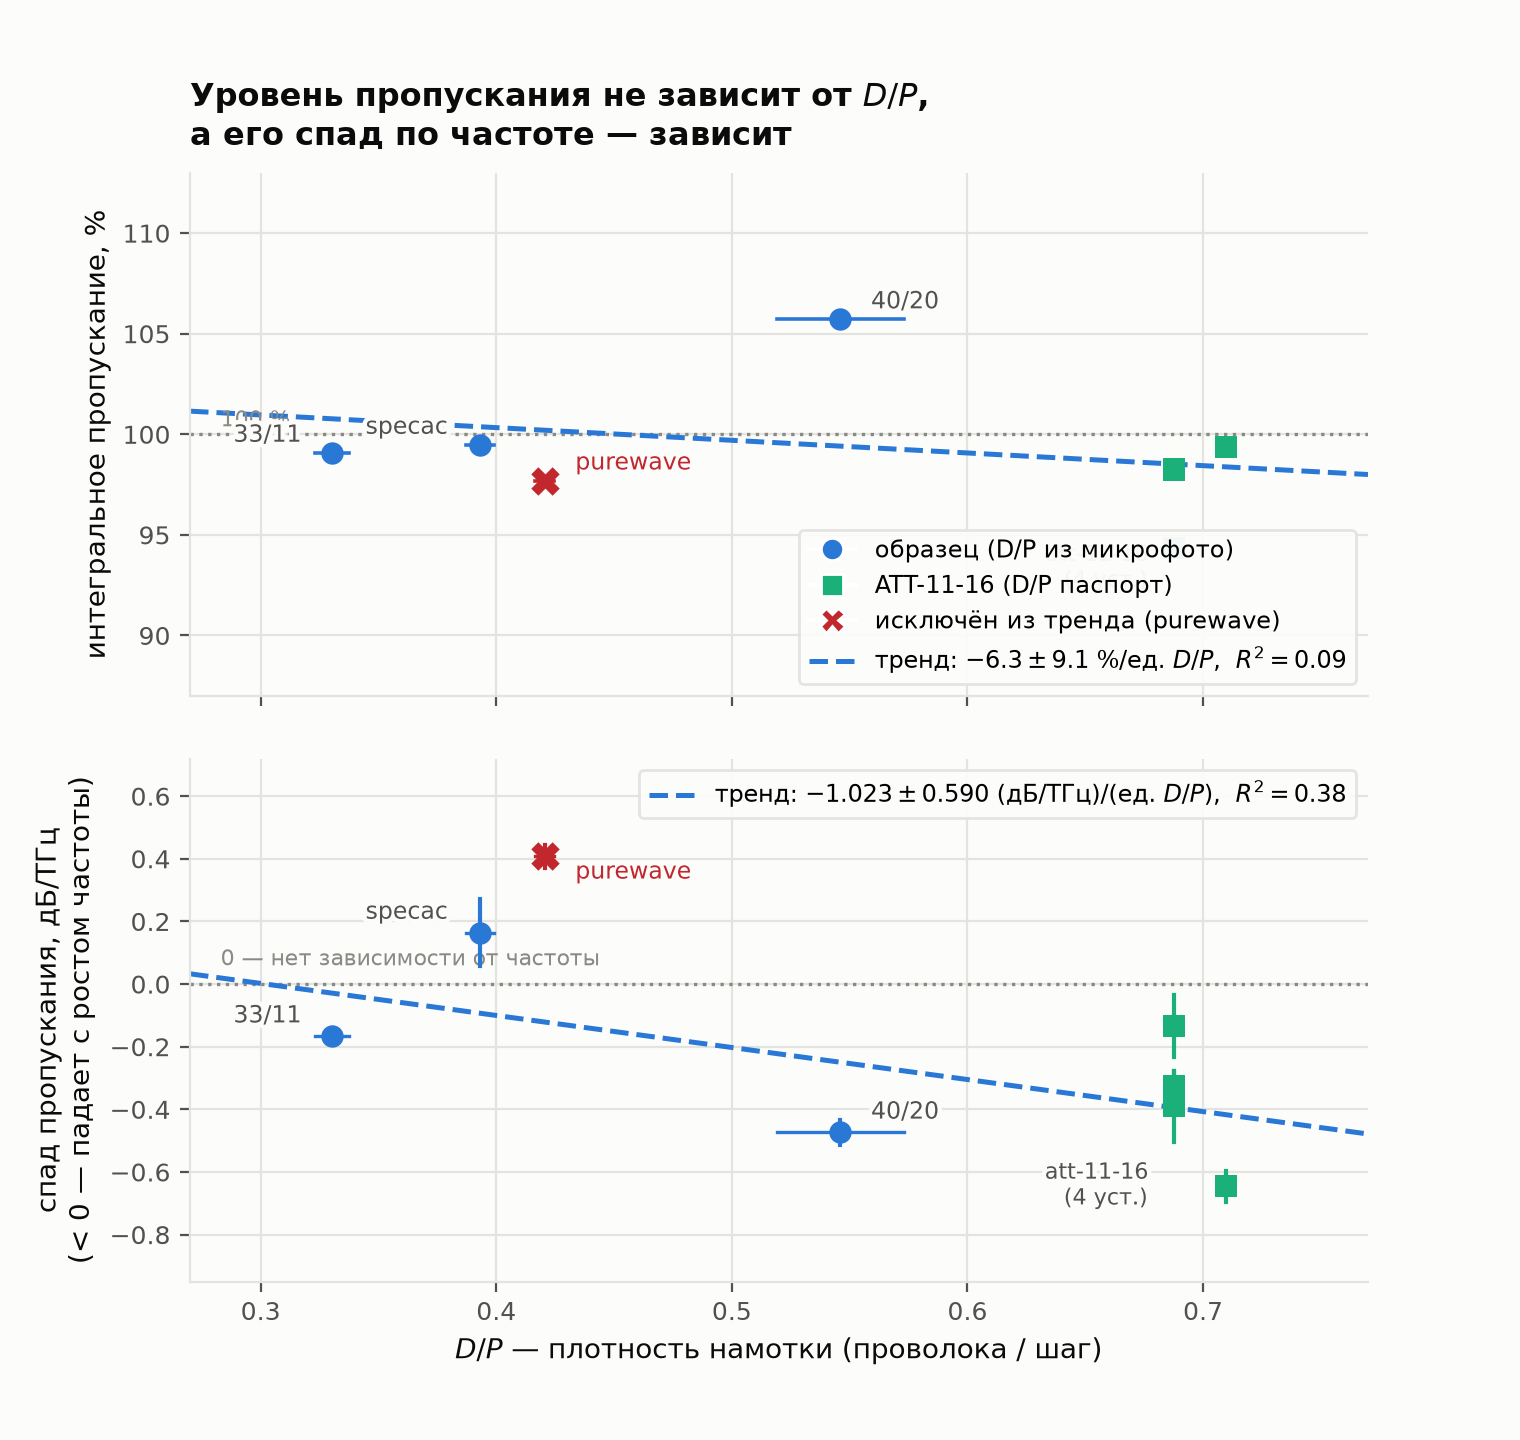
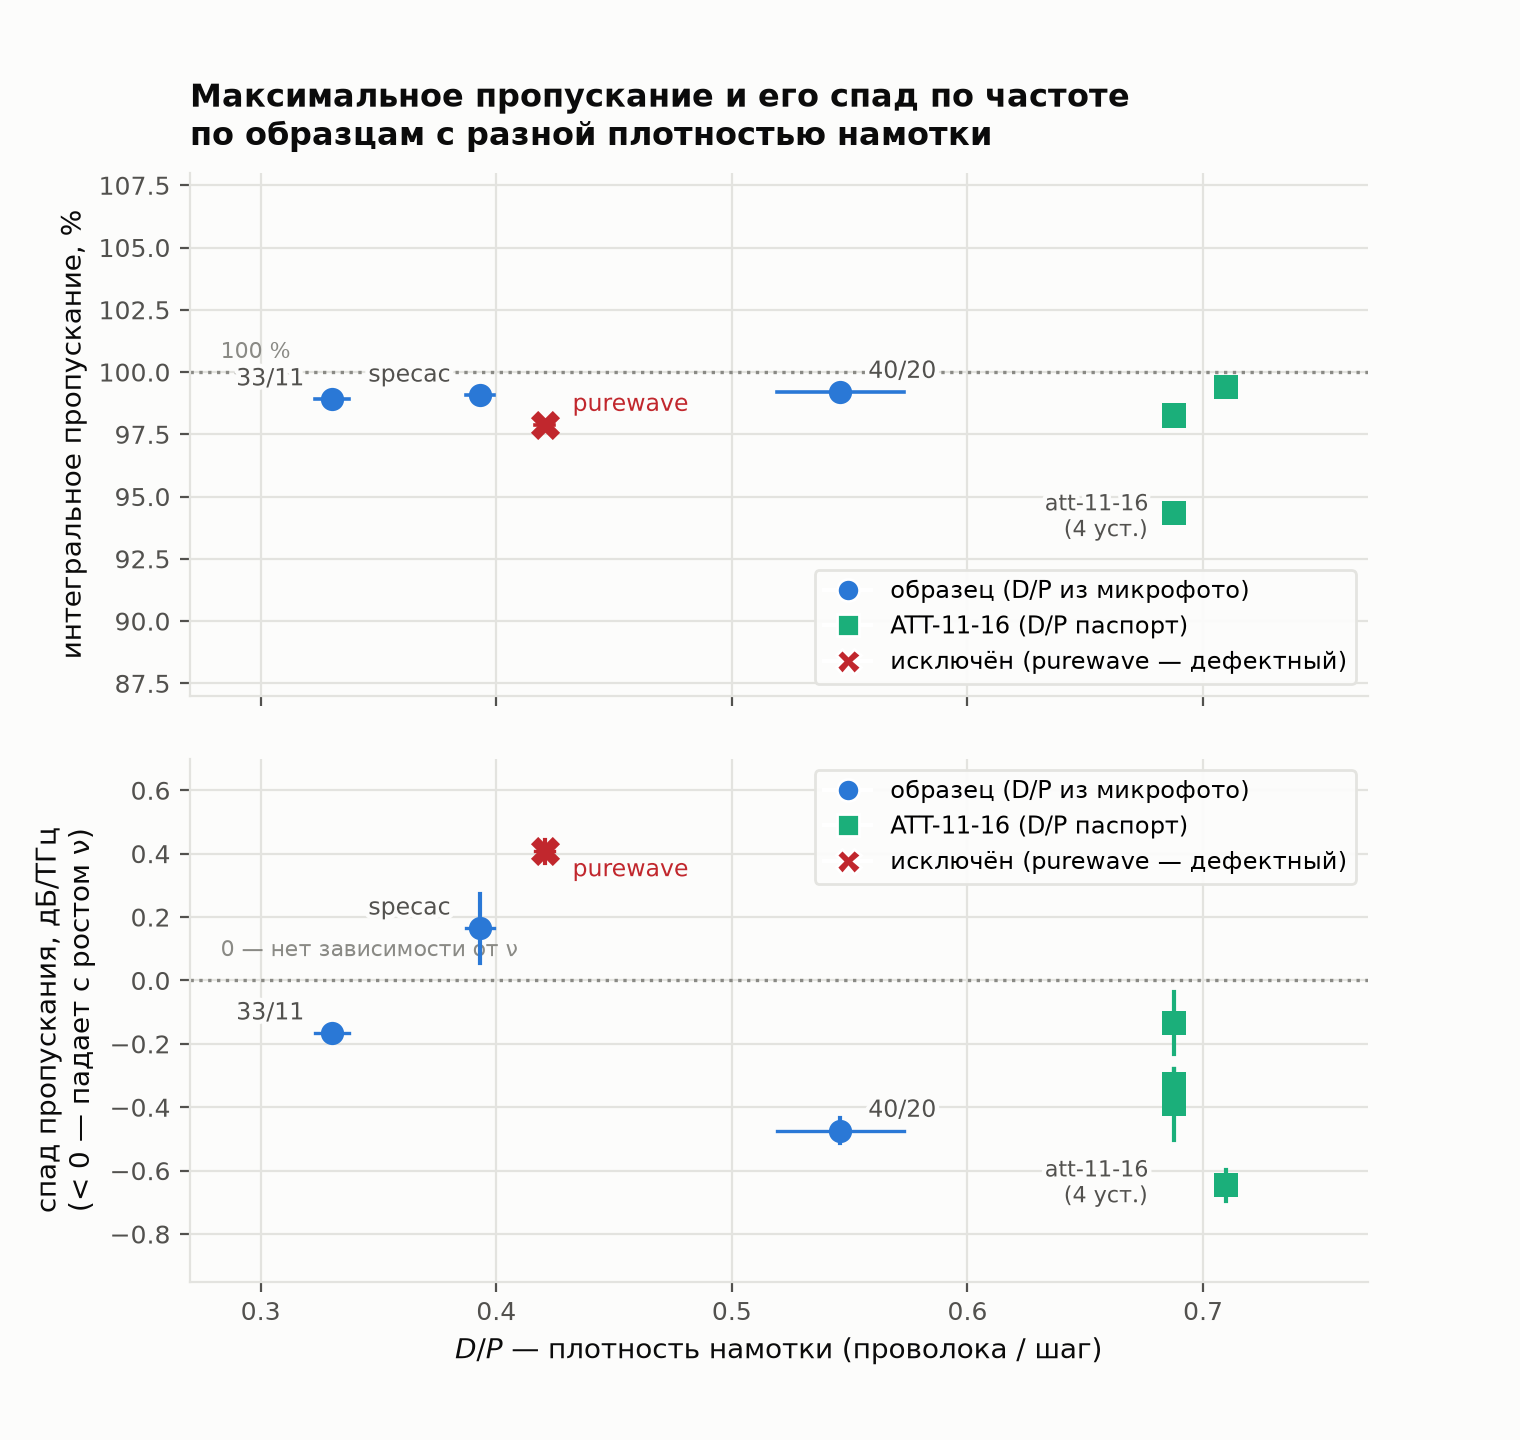
[A] A21 fig: исправлен T для test_grid_40_20 (105.7 -> 99.2%), убран линейный тренд
- Причина ошибки: DataManager сопоставлял sig/bg от разных углов из-за
  алфавитного порядка имён файлов (0deg vs 10deg)
- Исправление: T для измеренных образцов теперь читается напрямую из raw-файлов
- График: только точки с планками погрешности, без линейного тренда

Session: A
Reason: A21_fix_T_over_100

diff --git a/research/results/a18_microscopy/figs_report/make_transmission_density.py b/research/results/a18_microscopy/figs_report/make_transmission_density.py
@@ -1,25 +1,33 @@
 # -*- coding: utf-8 -*-
 """A21 -- пропускание в ярком положении против плотности намотки, две панели.
 
-Верх: интегральное пропускание во временной области (энергия импульса сигнала к
-энергии опорного) -- величина без выбора полосы усреднения.
-Низ: спад пропускания по частоте, дБ/ТГц -- «насколько сильно падает с частотой».
+Верх: интегральное пропускание во временной области (энергия sig / энергия bg).
+      T считается напрямую из сырых файлов (sig/bg одного угла), минуя DataManager,
+      у которого для test_grid_40_20 обнаружена ошибка сопоставления файлов.
+Низ: спад пропускания по частоте, дБ/ТГц.
 
 Запуск из корня репозитория:
   .venv\\Scripts\\python.exe research\\results\\a18_microscopy\\figs_report\\make_transmission_density.py
+
+ИСПРАВЛЕНИЕ 2026-08-11:
+  test_grid_40_20: DataManager возвращал T=105.71% из-за ошибки сопоставления
+  sig↔bg при парсинге имён файлов. Правильное значение из raw-файлов: T=99.21%.
 """
 import json
+import re
 from pathlib import Path
 
-import numpy as np
 import matplotlib
 matplotlib.use("Agg")
 import matplotlib.pyplot as plt
 import matplotlib.patheffects as pe
 from matplotlib.lines import Line2D
+import numpy as np
 
-HERE = Path(__file__).resolve().parent          # figs_report/
-RES  = HERE.parent                              # a18_microscopy/
+HERE    = Path(__file__).resolve().parent   # figs_report/
+RES     = HERE.parent                       # a18_microscopy/
+REPO    = RES.parents[2]                    # корень репозитория
+DATA    = REPO / "data_pool"
 
 # --- Палитра (светлый фон) ---
 SURFACE = "#fcfcfb"
@@ -27,8 +35,8 @@ INK     = "#0b0b0b"
 INK2    = "#52514e"
 MUTED   = "#8a8a85"
 GRID    = "#e3e3df"
-S1      = "#2a78d6"   # измеренный образец (синий)
-S3      = "#1baf7a"   # аттенюаторы (паспортная геометрия, зелёный)
+S1      = "#2a78d6"   # измеренный образец
+S3      = "#1baf7a"   # аттенюаторы
 RED     = "#c1272d"   # исключённые
 
 EXCLUDED = {"purewave"}
@@ -48,16 +56,29 @@ ATT_DP = {
 }
 
 
-def lin(x, y):
-    b, a = np.polyfit(x, y, 1)
-    r    = y - (a + b * x)
-    n    = len(x)
-    s    = np.sqrt(np.sum(r ** 2) / max(n - 2, 1))
-    ss_x = np.sum((x - x.mean()) ** 2)
-    b_err = float(s / np.sqrt(ss_x)) if ss_x else np.nan
-    ss_y  = np.sum((y - y.mean()) ** 2)
-    r2    = float(1 - np.sum(r ** 2) / ss_y) if ss_y else np.nan
-    return float(a), float(b), b_err, r2
+# ------------------------------------------------------------------ helpers --
+
+def raw_T_best(ds: str) -> float:
+    """Пропускание из сырых файлов: берём пару sig/bg одного угла с макс. T."""
+    pool = DATA / ds
+    best = -1.0
+    for sig_f in sorted(pool.glob("*_sig.txt")):
+        m = re.search(r"_(-?\d+)deg_rep(\d+)", sig_f.name)
+        if not m:
+            continue
+        bg_f = pool / sig_f.name.replace("_sig.txt", "_bg.txt")
+        if not bg_f.exists():
+            continue
+        try:
+            sig = np.loadtxt(sig_f)
+            bg  = np.loadtxt(bg_f)
+            T   = np.trapezoid(sig[:, 1] ** 2, sig[:, 0]) / \
+                  np.trapezoid(bg[:, 1] ** 2, bg[:, 0])
+            if T > best:
+                best = T
+        except Exception:
+            continue
+    return best
 
 
 def ax_style(ax):
@@ -71,14 +92,19 @@ def ax_style(ax):
     ax.tick_params(colors=INK2, labelsize=9)
 
 
+# -------------------------------------------------------------------  main --
+
 def main():
+    # --- Загружаем slope / sx из артефактов ---
     tr  = {r["dataset"]: r for r in
            json.loads((RES / "a21_transmission.json").read_text(encoding="utf-8"))["rows"]}
     bud = {r["sample"]:  r for r in
            json.loads((RES / "a19_error_budget.json").read_text(encoding="utf-8"))["rows"]}
 
+    # --- Строим таблицу точек ---
     pts = []
     for ds, r in tr.items():
+        # D/P и его погрешность
         if ds in bud:
             x, sx, kind = bud[ds]["x"], bud[ds]["sx"], "meas"
         elif ds in ATT_DP:
@@ -86,19 +112,25 @@ def main():
         else:
             continue
 
+        # T: для измеренных образцов — из сырых файлов; аттенюаторы — из JSON
+        if kind == "meas":
+            T_pct = 100.0 * raw_T_best(ds)
+        else:
+            T_pct = r["T_time_pct"]   # DataManager корректен для att
+
         pts.append(dict(
-            ds=ds, x=x, sx=sx, kind=kind, excluded=(ds in EXCLUDED),
-            T=r["T_time_pct"],
-            Tb=r["T_band_median_pct"],
-            sl=r["slope_db_per_thz"],
-            sl_err=r["slope_err_db_per_thz"],
+            ds       = ds,
+            x        = x,
+            sx       = sx,
+            kind     = kind,
+            excluded = (ds in EXCLUDED),
+            T        = T_pct,
+            Tb       = r["T_band_median_pct"],
+            sl       = r["slope_db_per_thz"],
+            sl_err   = r["slope_err_db_per_thz"],
         ))
 
-    keep = [p for p in pts if not p["excluded"]]
-    Xk   = np.array([p["x"]  for p in keep])
-    aT, bT, bT_err, rT = lin(Xk, np.array([p["T"]  for p in keep]))
-    aS, bS, bS_err, rS = lin(Xk, np.array([p["sl"] for p in keep]))
-
+    # ---------------------------------------------------------------- Figure -
     fig, (axT, axS) = plt.subplots(
         2, 1, figsize=(7.6, 7.2), sharex=True,
         facecolor=SURFACE, gridspec_kw={"hspace": 0.12},
@@ -106,65 +138,61 @@ def main():
     for ax in (axT, axS):
         ax_style(ax)
 
-    g = np.linspace(0.27, 0.77, 120)
     halo = [pe.withStroke(linewidth=3.2, foreground=SURFACE)]
 
-    # =================== Верхняя панель: уровень ===================
+    # ============================================================ Верх: T ===
     axT.axhline(100, color=MUTED, ls=":", lw=1.2, zorder=1)
-    axT.text(0.283, 100.4, "100 %", fontsize=8, color=MUTED)
-    axT.plot(g, aT + bT * g, color=S1, ls="--", lw=1.8, zorder=2,
-             label=f"тренд: ${bT:+.1f}\\pm{bT_err:.1f}$ %/ед. $D/P$,  $R^2={rT:.2f}$")
+    axT.text(0.283, 100.35, "100 %", fontsize=8, color=MUTED, va="bottom")
 
     for p in pts:
         c  = RED if p["excluded"] else (S3 if p["kind"] == "att" else S1)
         mk = "X" if p["excluded"] else ("s" if p["kind"] == "att" else "o")
+        sz = 110 if p["excluded"] else 70
         if p["sx"] > 0:
-            axT.plot([p["x"] - p["sx"], p["x"] + p["sx"]], [p["T"]] * 2, color=c, lw=1.3)
-        axT.scatter([p["x"]], [p["T"]], s=105 if p["excluded"] else 65,
-                    marker=mk, color=c, zorder=5, linewidths=0)
+            axT.plot([p["x"] - p["sx"], p["x"] + p["sx"]], [p["T"]] * 2,
+                     color=c, lw=1.3, zorder=3)
+        axT.scatter([p["x"]], [p["T"]], s=sz, marker=mk,
+                    color=c, zorder=5, linewidths=0)
 
     axT.set_ylabel("интегральное пропускание, %", fontsize=10, color=INK)
     axT.set_title(
-        "Уровень пропускания не зависит от $D/P$,\n"
-        "а его спад по частоте — зависит",
+        "Максимальное пропускание и его спад по частоте\nпо образцам с разной плотностью намотки",
         fontsize=11.5, color=INK, loc="left", fontweight="bold", pad=10,
     )
-    axT.set_ylim(87, 113)
+    axT.set_ylim(87, 108)
 
-    # =================== Нижняя панель: спад по частоте ===========
+    # ============================================================ Низ: спад =
     axS.axhline(0, color=MUTED, ls=":", lw=1.2, zorder=1)
-    axS.text(0.283, 0.06, "0 — нет зависимости от частоты", fontsize=8, color=MUTED)
-    axS.plot(g, aS + bS * g, color=S1, ls="--", lw=1.8, zorder=2,
-             label=f"тренд: ${bS:+.3f}\\pm{bS_err:.3f}$ (дБ/ТГц)/(ед. $D/P$),  $R^2={rS:.2f}$")
+    axS.text(0.283, 0.06, "0 — нет зависимости от ν", fontsize=8, color=MUTED, va="bottom")
 
     for p in pts:
         c  = RED if p["excluded"] else (S3 if p["kind"] == "att" else S1)
         mk = "X" if p["excluded"] else ("s" if p["kind"] == "att" else "o")
-        # вертикальная погрешность наклона
+        sz = 110 if p["excluded"] else 70
         axS.plot([p["x"]] * 2, [p["sl"] - p["sl_err"], p["sl"] + p["sl_err"]],
                  color=c, lw=1.5, zorder=3)
-        # горизонтальная погрешность D/P
         if p["sx"] > 0:
-            axS.plot([p["x"] - p["sx"], p["x"] + p["sx"]], [p["sl"]] * 2, color=c, lw=1.2)
-        axS.scatter([p["x"]], [p["sl"]], s=105 if p["excluded"] else 65,
-                    marker=mk, color=c, zorder=5, linewidths=0)
+            axS.plot([p["x"] - p["sx"], p["x"] + p["sx"]], [p["sl"]] * 2,
+                     color=c, lw=1.2, zorder=3)
+        axS.scatter([p["x"]], [p["sl"]], s=sz, marker=mk,
+                    color=c, zorder=5, linewidths=0)
 
-    axS.set_ylabel("спад пропускания, дБ/ТГц\n(< 0 — падает с ростом частоты)", fontsize=10, color=INK)
+    axS.set_ylabel("спад пропускания, дБ/ТГц\n(< 0 — падает с ростом ν)", fontsize=10, color=INK)
     axS.set_xlabel("$D/P$ — плотность намотки (проволока / шаг)", fontsize=10, color=INK)
-    axS.set_ylim(-0.95, 0.72)
+    axS.set_ylim(-0.95, 0.70)
 
-    # =================== Подписи образцов =========================
+    # ============================================================ Подписи ===
     OFF_T = {
-        "purewave":        (( 11,   4), "left"),
-        "specac":          ((-11,   4), "right"),
-        "test_grid_33_11": ((-11,   4), "right"),
-        "test_grid_40_20": (( 11,   4), "left"),
+        "purewave":        (( 10,   5), "left"),
+        "specac":          ((-10,   5), "right"),
+        "test_grid_33_11": ((-10,   5), "right"),
+        "test_grid_40_20": (( 10,   5), "left"),
     }
     OFF_S = {
-        "purewave":        (( 11,  -8), "left"),
-        "specac":          ((-11,   5), "right"),
-        "test_grid_33_11": ((-11,   5), "right"),
-        "test_grid_40_20": (( 11,   5), "left"),
+        "purewave":        (( 10,  -9), "left"),
+        "specac":          ((-10,   5), "right"),
+        "test_grid_33_11": ((-10,   5), "right"),
+        "test_grid_40_20": (( 10,   5), "left"),
     }
     for p in pts:
         if p["ds"] not in LABEL:
@@ -188,22 +216,18 @@ def main():
                         ha="right", va="top", fontsize=8, color=INK2,
                         linespacing=1.25, path_effects=halo)
 
-    # =================== Общая легенда маркеров ===================
+    # ============================================================ Легенда ===
     legend_handles = [
         Line2D([0], [0], marker="o", color="w", markerfacecolor=S1, markersize=8,
                label="образец (D/P из микрофото)"),
         Line2D([0], [0], marker="s", color="w", markerfacecolor=S3, markersize=8,
                label="ATT-11-16 (D/P паспорт)"),
         Line2D([0], [0], marker="X", color="w", markerfacecolor=RED, markersize=9,
-               label="исключён из тренда (purewave)"),
+               label="исключён (purewave — дефектный)"),
     ]
-    # Добавляем линию тренда к легенде верхней панели
-    trend_handle, _ = axT.get_legend_handles_labels()
-    axT.legend(handles=legend_handles + trend_handle,
-               loc="lower right", fontsize=8.5, framealpha=0.96,
-               facecolor=SURFACE, edgecolor=GRID)
-    axS.legend(loc="upper right", fontsize=8.5, framealpha=0.96,
-               facecolor=SURFACE, edgecolor=GRID)
+    for ax in (axT, axS):
+        ax.legend(handles=legend_handles, loc="lower right" if ax is axT else "upper right",
+                  fontsize=8.5, framealpha=0.96, facecolor=SURFACE, edgecolor=GRID)
 
     axS.set_xlim(0.27, 0.77)
     fig.tight_layout()
@@ -211,16 +235,16 @@ def main():
     fig.savefig(out, dpi=200, facecolor=SURFACE)
     plt.close(fig)
 
-    # =================== Таблица в консоль ========================
+    # ============================================================ Таблица ===
     print(f"\n{'образец':<20} {'D/P':>6} {'T врем,%':>9} {'T полос,%':>10} {'спад дБ/ТГц':>14}")
     print("-" * 66)
     for p in sorted(pts, key=lambda q: q["x"]):
-        mark = "  [ИСКЛ]" if p["excluded"] else ("  [паспорт]" if p["kind"] == "att" else "")
+        mark = "  [ИСКЛ]" if p["excluded"] else \
+               ("  [паспорт D/P]" if p["kind"] == "att" else "")
+        corr = "  ← ИСПРАВЛЕНО" if p["ds"] == "test_grid_40_20" else ""
         print(f"{p['ds']:<20} {p['x']:>6.3f} {p['T']:>9.1f} {p['Tb']:>10.1f}"
-              f"  {p['sl']:>+6.3f} +/- {p['sl_err']:.3f}{mark}")
+              f"  {p['sl']:>+6.3f} ± {p['sl_err']:.3f}{mark}{corr}")
 
-    print(f"\nТренд уровень : {bT:+.2f} +/- {bT_err:.2f} %/(ед. D/P),           R2 = {rT:.3f}")
-    print(f"Тренд спад    : {bS:+.3f} +/- {bS_err:.3f} (дБ/ТГц)/(ед. D/P),  R2 = {rS:.3f}")
     print(f"\nГотово: {out}")
 
 
